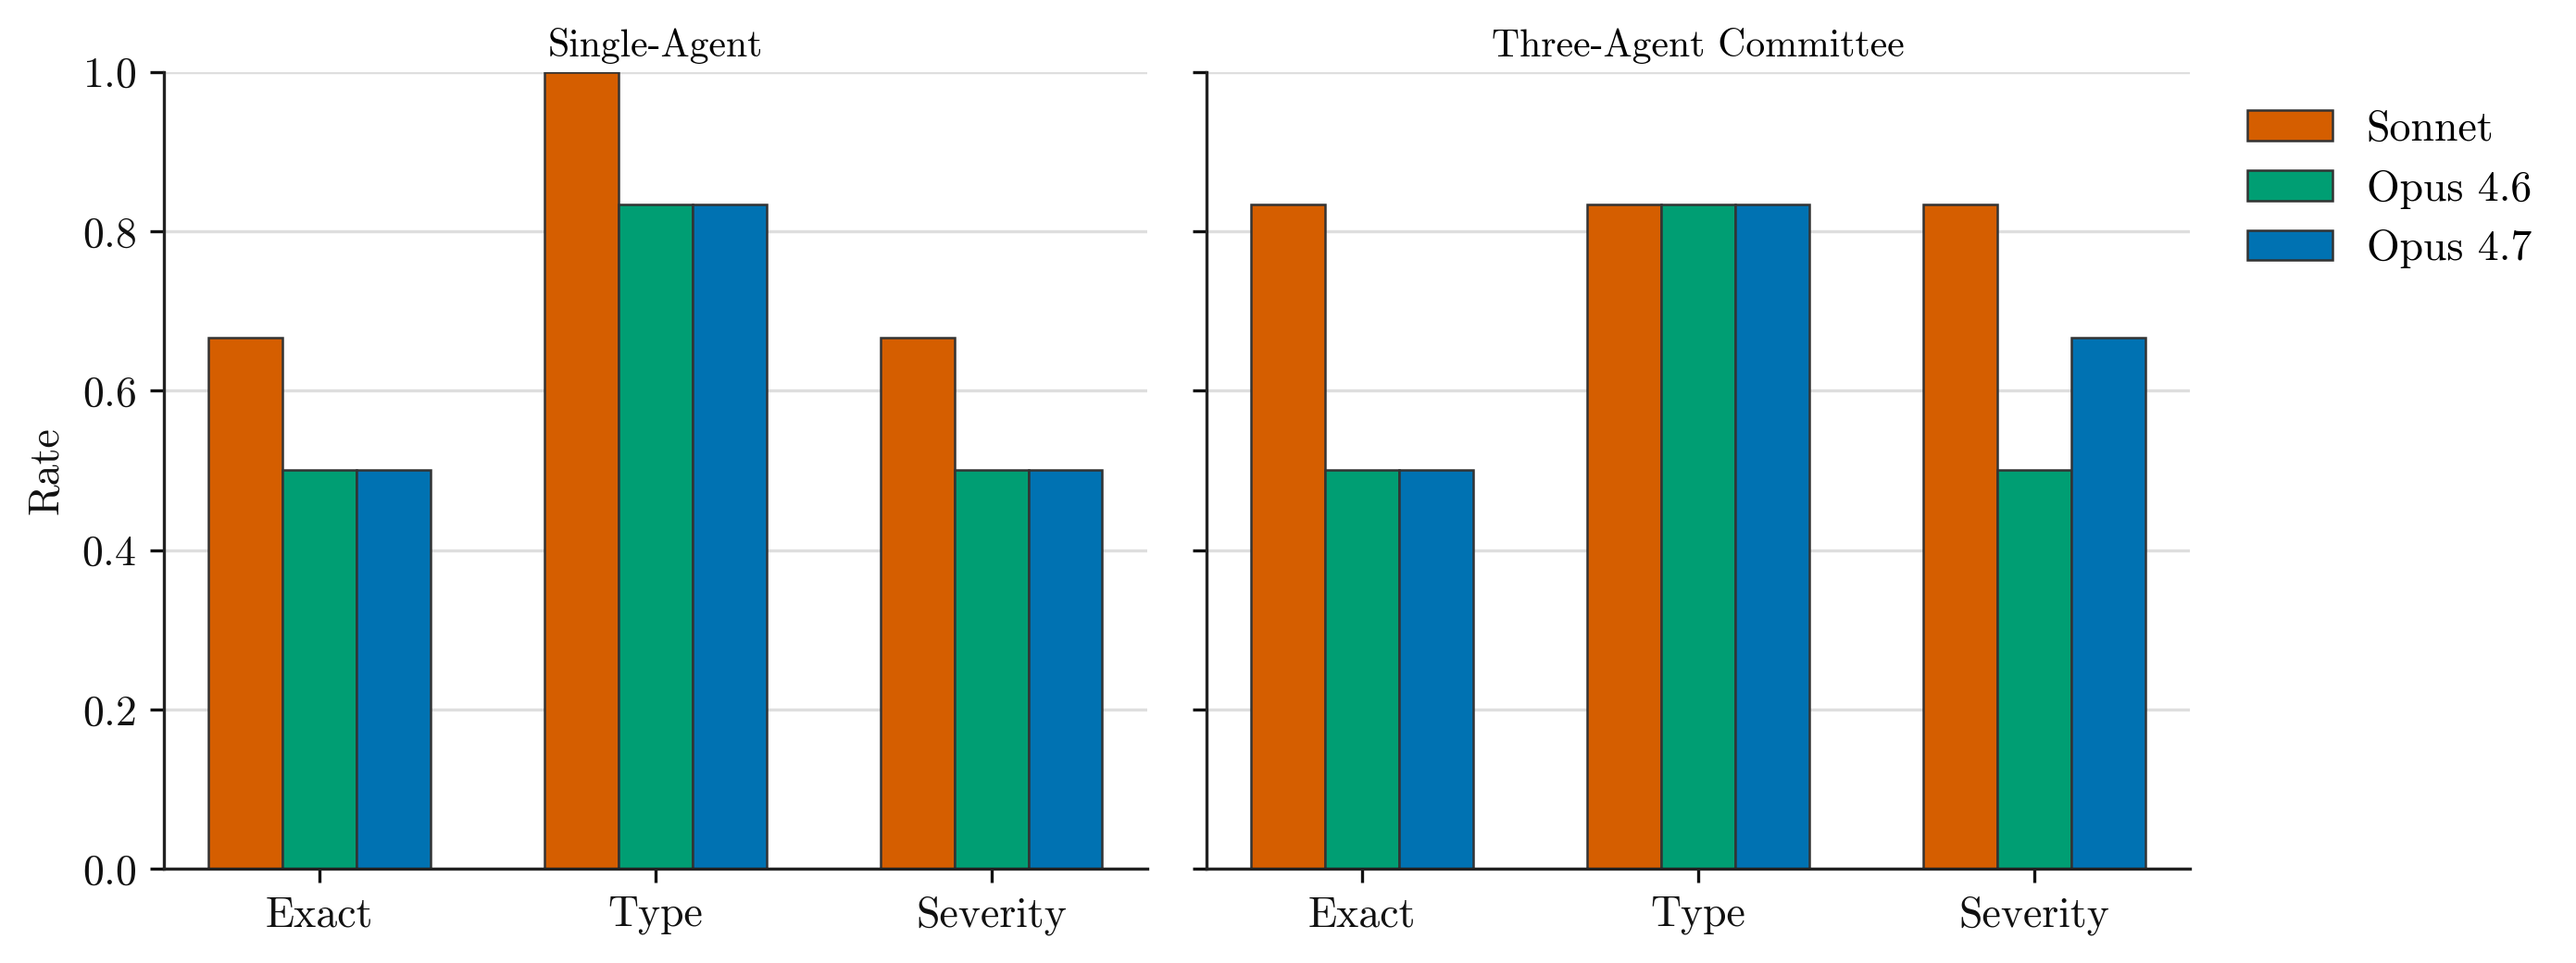
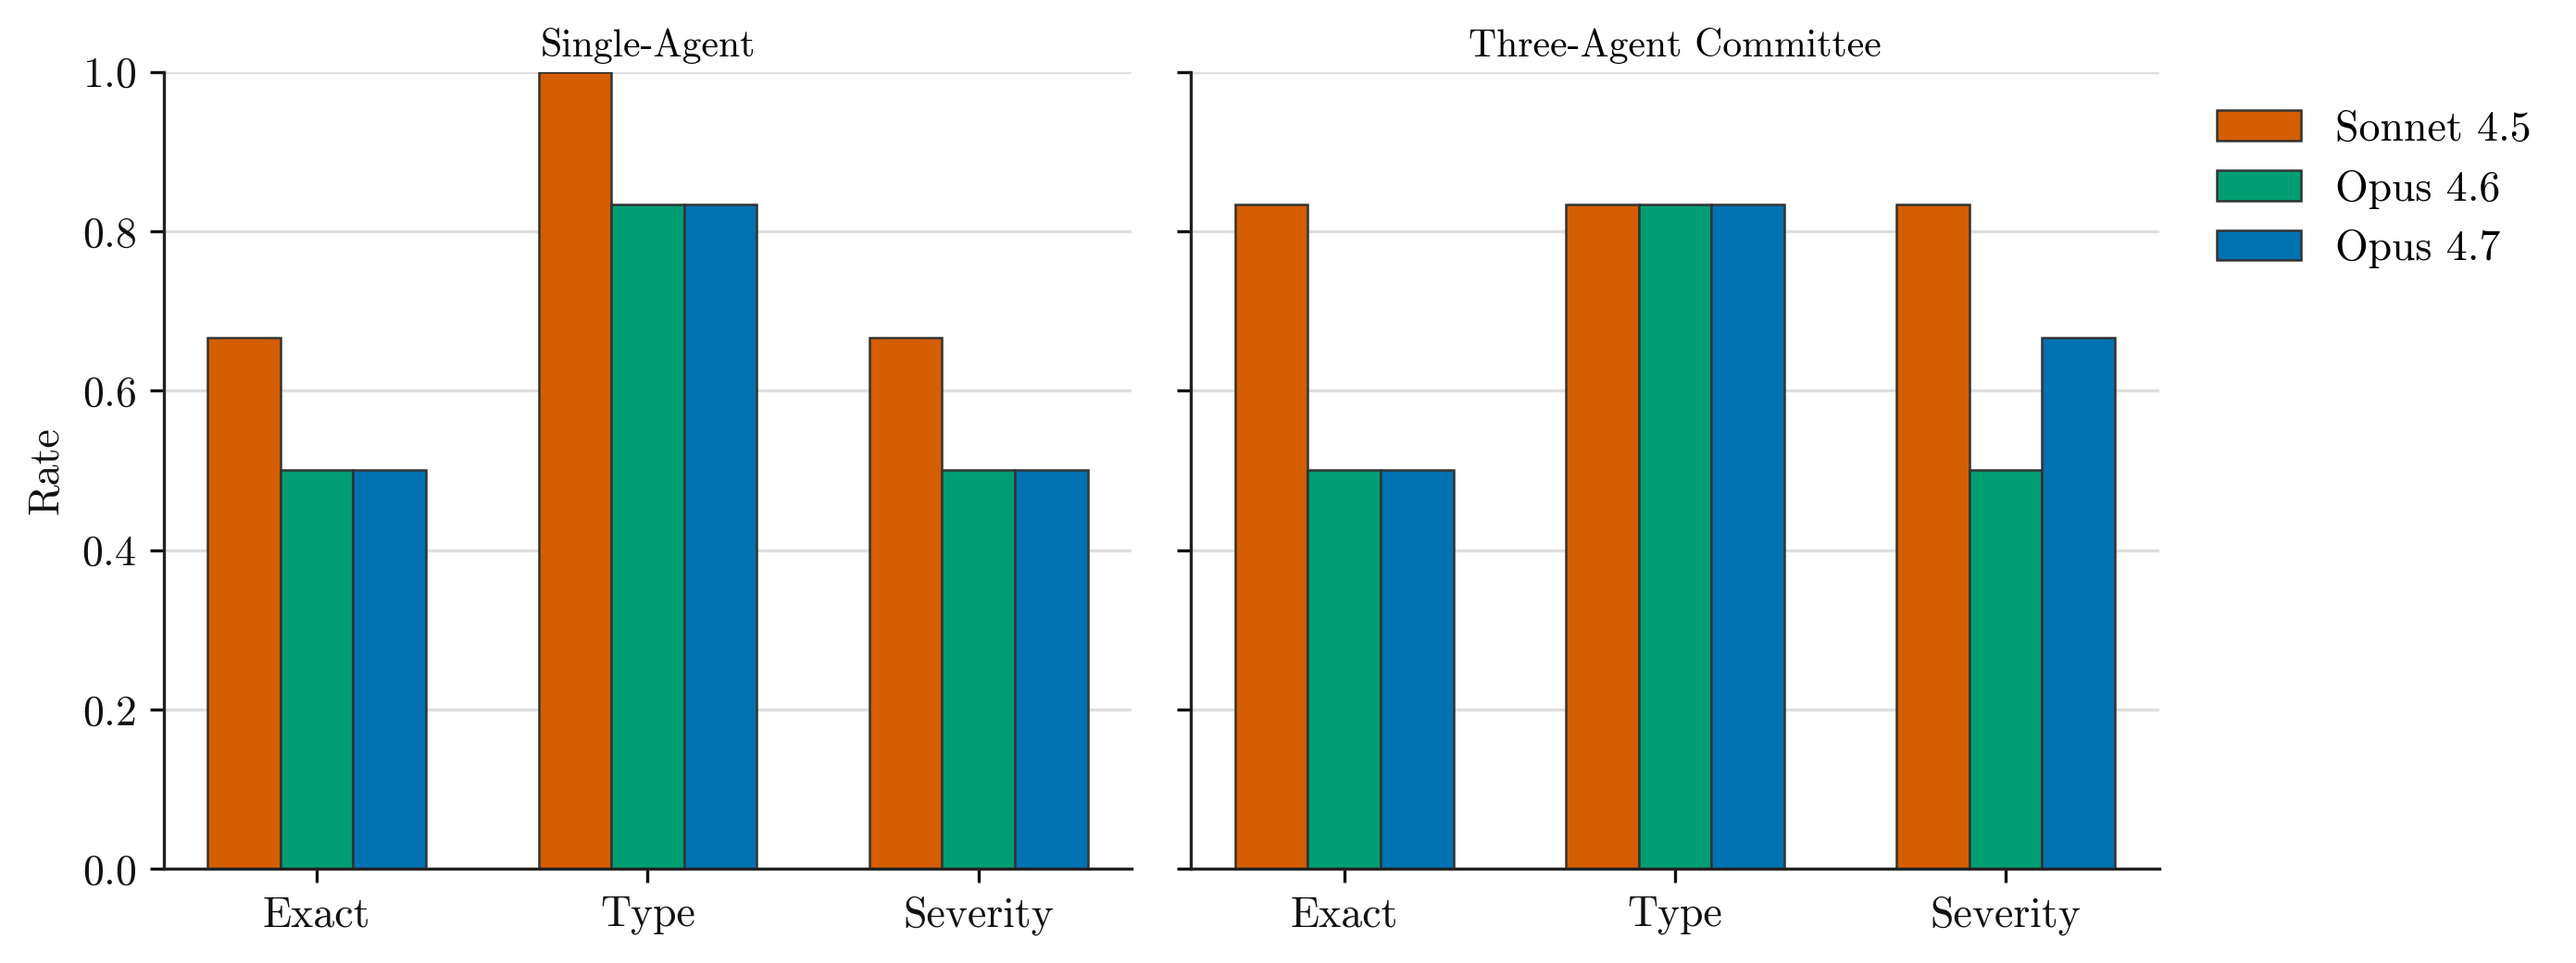
fixed

diff --git a/scripts/generate_anthropic_cyber_plots.py b/scripts/generate_anthropic_cyber_plots.py
@@ -121,13 +121,13 @@ FAMILY_ORDER = ["sonnet", "opus46", "opus47"]
 FAMILY_SPECS: Dict[str, FamilySpec] = {
     "sonnet": FamilySpec(
         key="sonnet",
-        display_name="Claude Sonnet",
-        axis_label="Sonnet",
+        display_name="Claude Sonnet 4.5",
+        axis_label="Sonnet 4.5",
         color="#D55E00",
         prefix="sonnet",
         conditions=(
-            ConditionSpec("C2", "Single Claude Sonnet", "Single", "single"),
-            ConditionSpec("C4", "3x Claude Sonnet", "3-agent", "committee"),
+            ConditionSpec("C2", "Single Claude Sonnet 4.5", "Single", "single"),
+            ConditionSpec("C4", "3x Claude Sonnet 4.5", "3-agent", "committee"),
         ),
     ),
     "opus46": FamilySpec(
@@ -1112,7 +1112,7 @@ def generate_comparison_plots(runs: Sequence[RunEntry], plots_root: Path) -> Lis
 
 def main() -> None:
     parser = argparse.ArgumentParser(
-        description="Generate Sonnet, Opus 4.6, and Opus 4.7 cybersecurity thesis plots plus comparison figures."
+        description="Generate Sonnet 4.5, Opus 4.6, and Opus 4.7 cybersecurity thesis plots plus comparison figures."
     )
     parser.add_argument("--output-root", type=Path, default=DEFAULT_OUTPUT_ROOT, help="Cyber output directory.")
     parser.add_argument("--ground-truth-dir", type=Path, default=DEFAULT_GROUND_TRUTH_DIR, help="Ground-truth directory.")
@@ -1124,7 +1124,7 @@ def main() -> None:
 
     runs = collect_runs(args.output_root, args.ground_truth_dir, family_keys=FAMILY_ORDER)
     if not runs:
-        raise SystemExit(f"No completed Sonnet/Opus runs found in {args.output_root}")
+        raise SystemExit(f"No completed Sonnet 4.5/Opus runs found in {args.output_root}")
 
     generated: List[Path] = []
     for family_key in FAMILY_ORDER:
